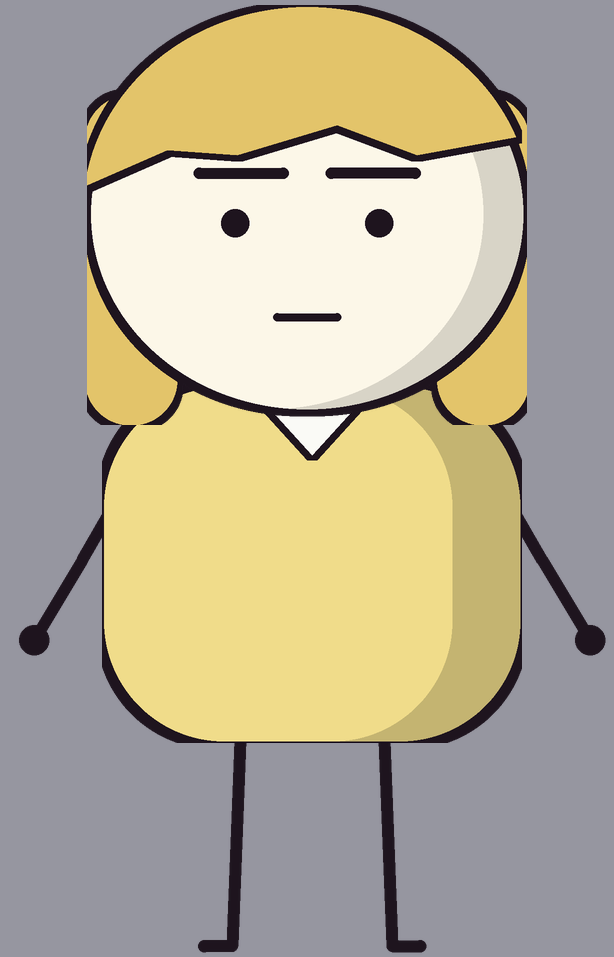
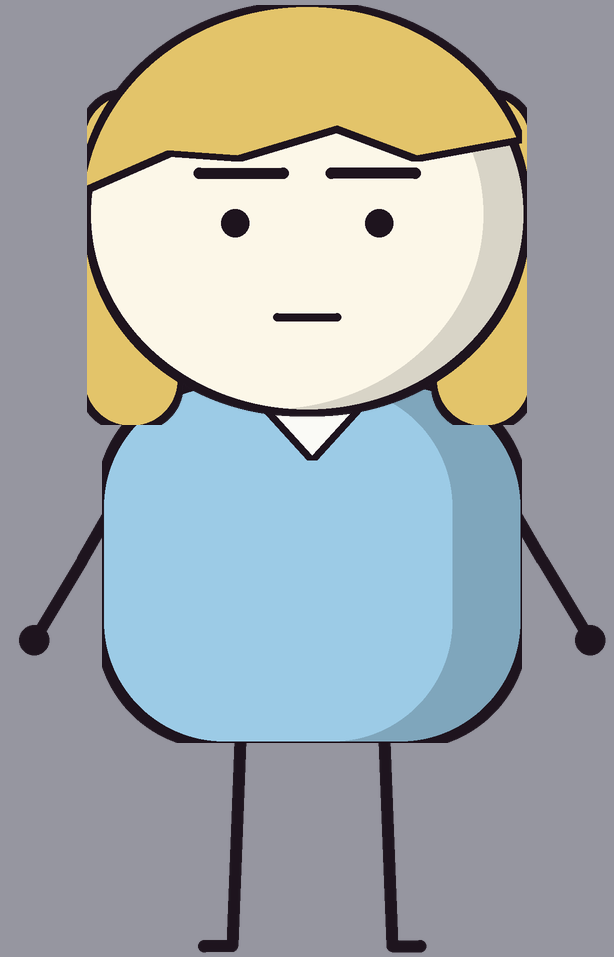
Framing and colour fixes from stop-frame checks
Claude-Session: https://claude.ai/code/session_016mB5dZq2mWrcQPmhiBQUFU

Changed region(s): [[0.1547, 0.3939, 0.8664, 0.7879]]

diff --git a/ricks/tools/overnight_breakdowns.py b/ricks/tools/overnight_breakdowns.py
@@ -103,13 +103,13 @@ def jungle_fall():
      L("and walked out of", "jungle", "jul_j", "medium", "push", "The girl walks out of the rainforest toward the camera",
        acts=[act("jul_j", 0.2, face="neutral", to=[0.4, 0, 1.2], walk=True, over=2.3)]),
      L("On Christmas Eve", "sky", None, move="push", anchor=[0, 2.4, -7], proof="An airliner flying into dark thunderclouds with a 24 DEC 1971 PERU card",
-       extra=A(13, 42, -10, 1, orbit=3, rise=0.6, zoom=4), show=[card("sign_peru", [-4.4, 0, -2.5], [3.3, 1.45])]),
+       extra=A(26, 42, -10, 1, orbit=3, rise=0.6, zoom=4), show=[card("sign_peru", [-4.4, 0, -2.5], [3.3, 1.45])]),
      L("over the Peruvian Amazon", "jungle", None, move="pull", anchor=[0, 3, -12], proof="A dense green Amazon rainforest canopy seen from a distance",
-       extra=A(16, 44, 8, 3, orbit=-3, rise=2, zoom=-2)),
+       extra=A(34, 44, 8, 3, orbit=-3, rise=2, zoom=-2)),
      L("Lightning struck", "sky", None, move="push", anchor=[0, 2.4, -7], proof="A yellow lightning bolt strikes the airliner",
-       extra=A(11, 42, 6, 1, orbit=-3, rise=0.4, zoom=4), show=[card("bolt", [3.2, 0, -6.2], [1.7, 4.4])]),
+       extra=A(24, 42, 6, 1, orbit=-3, rise=0.4, zoom=4), show=[card("bolt", [3.2, 0, -6.2], [1.7, 4.4])]),
      L("The plane broke apart", "sky", None, move="orbitR", anchor=[0, 2.4, -7], proof="The airliner breaks apart, pieces tumbling through the storm",
-       extra=A(11, 42, -6, 1, orbit=5, rise=0.5, zoom=3), show=[
+       extra=A(24, 42, -6, 1, orbit=5, rise=0.5, zoom=3), show=[
          {"type": "box", "pos": [-3.2, 3.8, -6.5], "size": [1.6, 0.25, 0.9], "color": "#e6e8ec"}, {"type": "box", "pos": [3.6, 1.0, -6.0], "size": [1.2, 0.3, 0.8], "color": "#cfd3d8"},
          {"type": "box", "pos": [-5.0, 1.2, -6.5], "size": [0.9, 0.2, 0.7], "color": "#d6dade"}, {"type": "box", "pos": [5.0, 3.6, -6.4], "size": [1.0, 0.25, 0.7], "color": "#e6e8ec"}]),
      L("Still strapped to her seat", "sky", "jul_s", "close", "push", "The girl strapped to a blue airliner seat in the storm",
@@ -165,8 +165,8 @@ def lightning_man():
        acts=[act("roy_f", 0.2, face="neutral")]),
      L("The first bolt", "tower", "roy_f", "medium", "push", "A bolt hits Roy by the tower: STRIKE 1, 1942",
        acts=[act("roy_f", 0.1, face="shocked", motion="cower")], show=[bolt(0.5, -0.3, 1.0), card("sign_strike1", [-2.0, 1.8, -1.0], [1.6, 1.0])]),
-     L("and blew off", "tower", None, move="push", anchor=[0, 0.4, -0.3], proof="A scorched work boot with a hole where the big toenail was",
-       extra=A(2.6, 38, 6, 6, zoom=4, orbit=-2, rise=0.1), show=[card("boot", [0, 0, -0.3], [0.8, 0.76])]),
+     L("and blew off", "tower", None, move="push", anchor=[2.0, 0.4, 0.8], proof="A scorched work boot with a hole where the big toenail was",
+       extra=A(3.2, 38, 6, 6, zoom=4, orbit=-2, rise=0.1), show=[card("boot", [2.0, 0, 0.8], [0.8, 0.76])]),
      L("Years later, lightning", "road", "roy_r", "wide", "orbitL", "A bolt strikes the ranger truck as Roy drives: STRIKE 2, 1969",
        acts=[act("roy_r", 0.2, face="shocked")], show=[bolt(-5.2, -2.4, 1.4), card("sign_strike2", [2.2, 1.9, -1.0], [1.6, 1.0])]),
      L("Then again, in", "yard", "roy_y", "medium", "orbitR", "A bolt hits in Roy's front yard by the house: STRIKE 3, 1970",
@@ -183,20 +183,20 @@ def lightning_man():
        acts=[act("roy_r", 0.1, face="scared")], show=[bolt(0.2, -2.6, 2.4), card("sign_strike7", [1.9, 1.6, -1.2], [1.6, 1.0])]),
      L("Seven times, he got", "road", "roy_r", "medium", "craneUp", "Roy rises, scorched but standing",
        acts=[act("roy_r", 0.1, face="neutral", motion="nod")]),
-     L("Guinness World Records says", "yard", None, move="pull", anchor=[0, 1.2, -2], proof="A GUINNESS WORLD RECORDS - 7 STRIKES plaque",
-       extra=A(6, 40, -6, 3, zoom=-3, orbit=2, rise=0.8), show=[card("sign_guinness", [0, 0, -2], [3.0, 1.63])]),
+     L("Guinness World Records says", "yard", None, move="pull", anchor=[-9, 1.2, -1.5], proof="A GUINNESS WORLD RECORDS - 7 STRIKES plaque",
+       extra=A(7, 40, -6, 3, zoom=-3, orbit=2, rise=0.8), show=[card("sign_guinness", [-9, 0, -1.5], [3.0, 1.63])]),
      L("and people called him", "road", "roy_r", "close", "push", "Roy beside a lightning-rod pole with a bolt striking it",
        acts=[act("roy_r", 0.1, face="neutral")], show=[{"type": "post", "pos": [1.0, 0, -0.6], "h": 3.6, "color": "#b8bcc4"}, bolt(1.0, -0.8, 1.1)]),
      L("No one could explain", "yard", "roy_y", "close", "orbitL", "Roy confused, thinking",
        acts=[act("roy_y", 0.1, face="confused")]),
-     L("The odds of being hit", "yard", None, move="push", anchor=[0, 1.2, -2], proof="A THE ODDS? card with a single small bolt",
-       extra=A(5, 40, 5, 3, zoom=4, orbit=-2, rise=0.3), show=[card("sign_odds", [0, 0, -2], [2.6, 1.33]), bolt(1.9, -2.0, 0.8)]),
+     L("The odds of being hit", "yard", None, move="push", anchor=[-9, 1.2, -1.5], proof="A THE ODDS? card with a single small bolt",
+       extra=A(9, 40, 5, 3, zoom=4, orbit=-2, rise=0.3), show=[card("sign_odds", [-9, 0, -1.5], [2.6, 1.33]), bolt(-7.2, -1.5, 0.8)]),
      L("The odds of seven", "tower", "roy_f", "wide", "push", "Seven bolts across the sky behind Roy, who shrugs",
        acts=[act("roy_f", 0.1, face="confused", motion="shrug")], show=[bolt(x, -6.0, 1.1) for x in (-4.5, -3.0, -1.5, 0.0, 1.5, 3.0, 4.5)]),
      L("In the end", "yard", "roy_y", "wide", "orbitR", "Roy, in sunshine, walks slowly across his yard",
        acts=[act("roy_y", 0.1, face="neutral", to=[2.6, 0, 0.3], walk=True, over=2.0)]),
-     L("Roy died in nineteen", "yard", None, move="craneUp", anchor=[0, 1.0, -1.5], proof="A ROY SULLIVAN 1912 - 1983 memorial plaque",
-       extra=A(6, 40, 4, 2, zoom=2, orbit=1, rise=1.0), show=[card("sign_roy", [0, 0, -1.5], [3.0, 1.32])]),
+     L("Roy died in nineteen", "yard", None, move="craneUp", anchor=[-9, 1.0, -1.5], proof="A ROY SULLIVAN 1912 - 1983 memorial plaque",
+       extra=A(7, 40, 4, 2, zoom=2, orbit=1, rise=1.0), show=[card("sign_roy", [-9, 0, -1.5], [3.0, 1.32])]),
      L("Lightning never got him", "yard", "roy_y", "close", "pull", "Roy smiles quietly in the sun",
        acts=[act("roy_y", 0.1, face="smug")]),
     ]

diff --git a/ricks/tools/make_assets_code.py b/ricks/tools/make_assets_code.py
@@ -179,7 +179,7 @@ CHARS = {
  "pilot": (dict(torso="#1f2f55", kind="pilot", hair="#a8a8a8", hairstyle="short"), "1971 airline captain, navy jacket with gold stripes, grey hair"),
  "boy": (dict(torso="#d84a3a", kind="stripes", second="#f4f0e4", hair="#b98a52", hairstyle="messy"), "an eight year old boy in a red and white striped t-shirt"),
  "agent": (dict(torso="#7a7f88", kind="agent", second="#22262e", hair="#1f1a22", hairstyle="short"), "1970s FBI agent in a grey suit and narrow tie"),
- "juliane": (dict(torso="#f0dc8a", kind="dress", hair="#e3c46a", hairstyle="long"), "17 year old girl in a pale yellow summer dress with long blond hair"),
+ "juliane": (dict(torso="#9ccbe6", kind="dress", hair="#e3c46a", hairstyle="long"), "17 year old girl in a pale yellow summer dress with long blond hair"),
  "father": (dict(torso="#a89a64", kind="khaki", hair="#a8a8a8", hairstyle="grey_sides", glasses=True, beard="#bdbdbd"), "biologist in a khaki field shirt, round glasses, grey beard"),
  "logger": (dict(torso="#4a6fa0", kind="overall", hair="#1f1a22", hairstyle="short", skin="#efd6ad", moustache="#1f1a22"), "rainforest logger in a faded blue work shirt with a black moustache"),
  "roy": (dict(torso="#6b7a3d", kind="ranger", second="#5a3a22", hair="#9a9a9a", hairstyle="short", browc="#8a8a8a", brow=15), "park ranger in an olive uniform shirt with a badge, grey hair"),
@@ -264,4 +264,6 @@ if __name__ == "__main__":
     if "bd" in what: make_bd()
     if "hats" in what: make_hats()
     if "chars" in what:
-        for k, (sp, desc) in CHARS.items(): make_char(k, sp, desc); print("char", k, flush=True)
+        for k, (sp, desc) in CHARS.items():
+            if os.environ.get("ONLY") and k not in os.environ["ONLY"].split(","): continue
+            make_char(k, sp, desc); print("char", k, flush=True)
